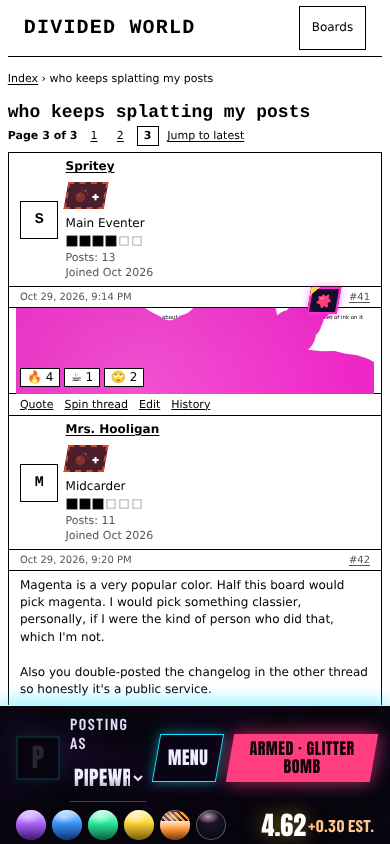
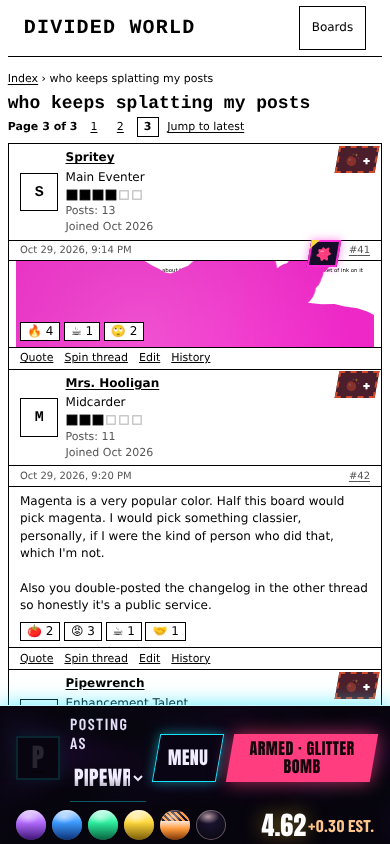
Lay a postbit's marks just inside its corner, and shoot the cards beyond a post again
Claude-Session: https://claude.ai/code/session_01FiUbYPDsEzi12G4RndkV5B

Changed region(s): [[0.0, 0.0924, 0.9846, 0.8318], [0.8615, 0.154, 0.9846, 0.2156], [0.8923, 0.5545, 0.9538, 0.5853]]

diff --git a/engine/ui/cards/marks.css b/engine/ui/cards/marks.css
@@ -334,8 +334,8 @@
 }
 .kb-postbit .kb-postbit-marks {
   position: absolute;
-  top: 0;
-  right: 0;
+  top: 0.3rem;
+  right: 0.3rem;
   min-height: 0;
 }
 .kb-postbit-marks > .kb-marks-anchor {
